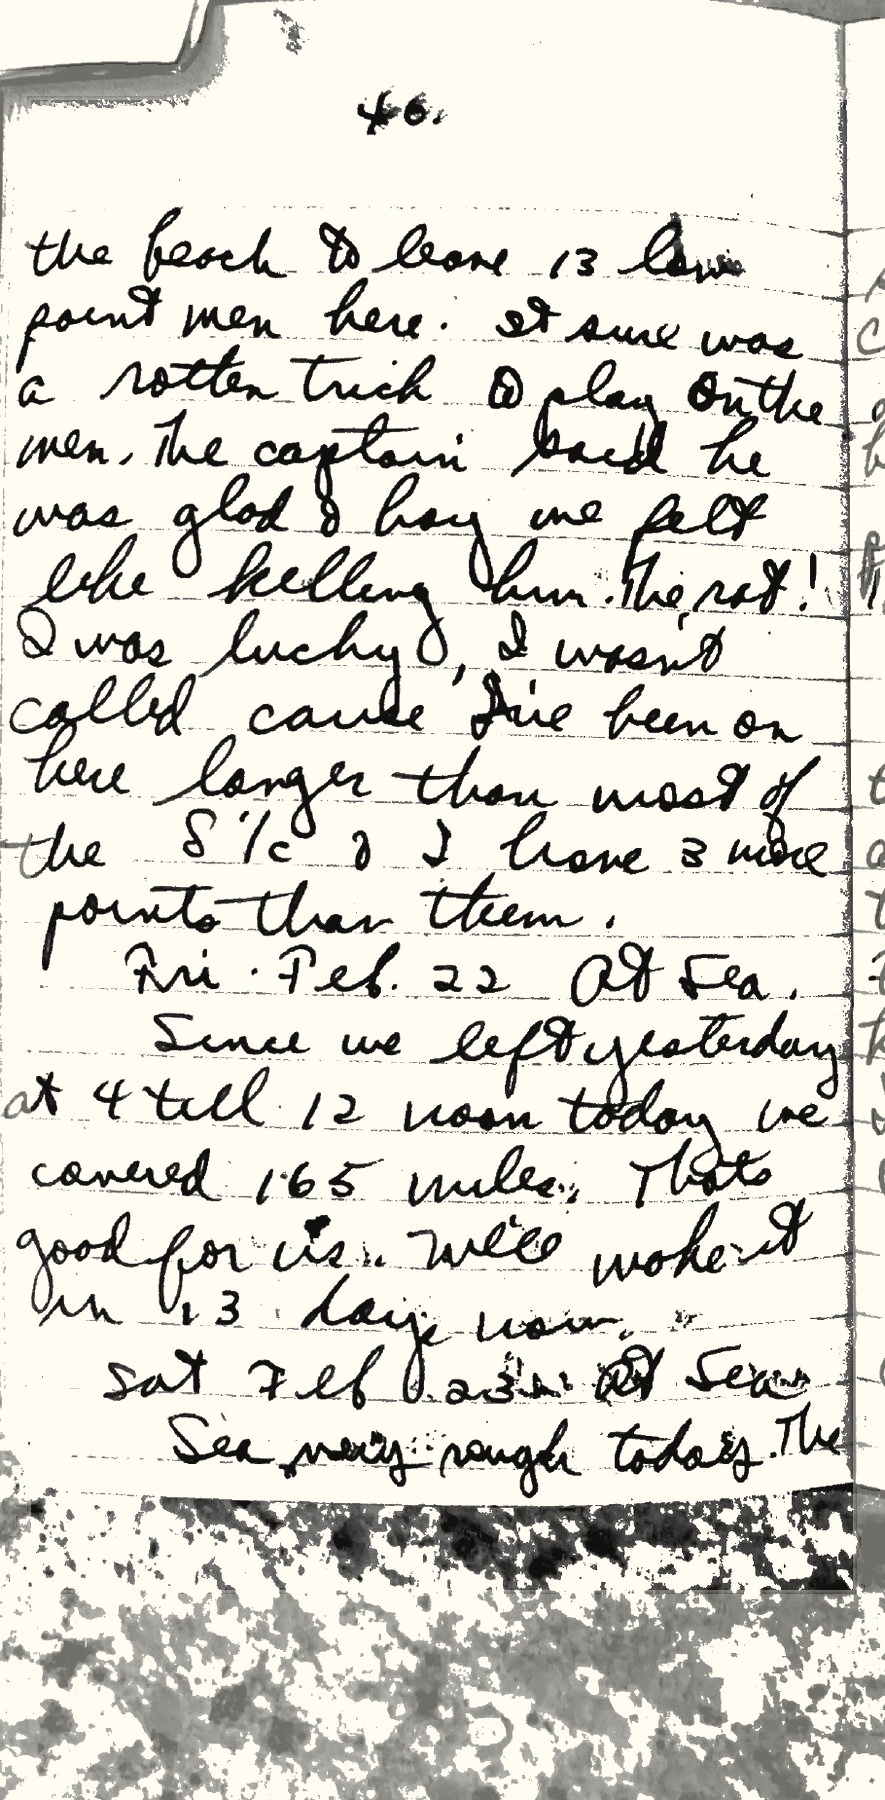
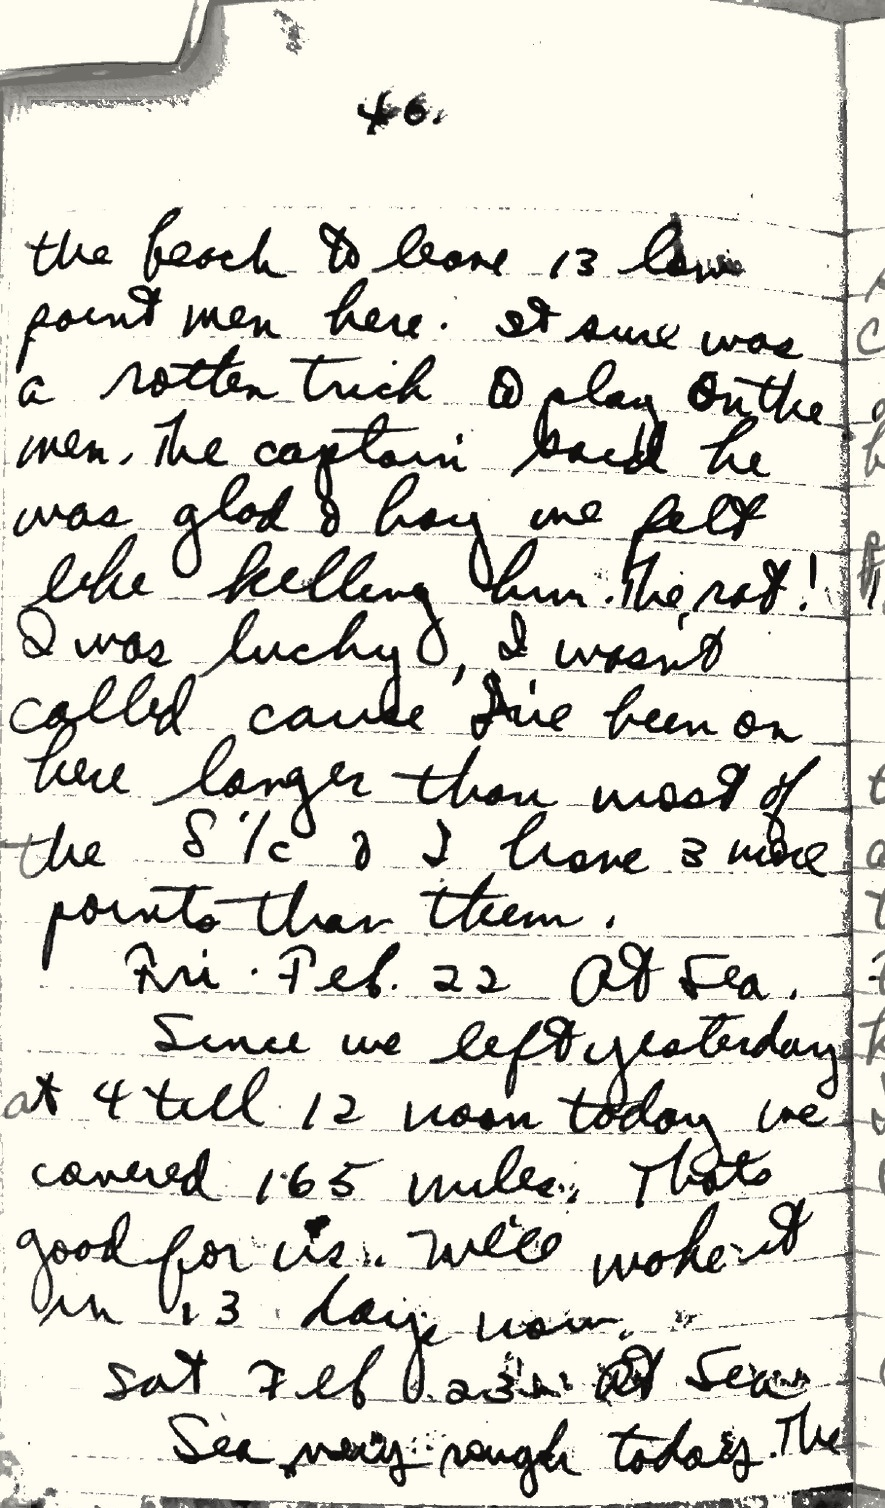
Refine handwritten crops and add closing photo

diff --git a/docs/index.html b/docs/index.html
@@ -186,6 +186,17 @@
       font-size: clamp(24px, 3vw, 42px);
       line-height: 1.25;
     }
+    .birthdayPhoto {
+      width: min(760px, 86vw);
+      margin: 8px 0 72px;
+    }
+    .birthdayPhoto img {
+      width: 100%;
+      height: auto;
+      max-height: min(48vh, 540px);
+      object-fit: contain;
+      box-shadow: 0 18px 44px rgba(34, 29, 20, 0.18);
+    }
     .birthdayFooter {
       position: absolute;
       right: 24px;
@@ -1050,7 +1061,7 @@
     <section class="column handwrittenColumn" aria-label="Page 23 handwritten page">
       
       <figure>
-        <img src="assets/pages_shadow_midpoint/page_24.jpg" alt="Handwritten diary Page 24" width="1041" height="1800" loading="lazy">
+        <img src="assets/pages_shadow_midpoint/page_24.jpg" alt="Handwritten diary Page 24" width="999" height="1800" loading="lazy">
         
       </figure>
     </section>
@@ -1424,7 +1435,7 @@
     <section class="column handwrittenColumn" aria-label="Page 36 handwritten page">
       
       <figure>
-        <img src="assets/pages_shadow_midpoint/page_37.jpg" alt="Handwritten diary Page 37" width="924" height="1585" loading="lazy">
+        <img src="assets/pages_shadow_midpoint/page_37.jpg" alt="Handwritten diary Page 37" width="924" height="1515" loading="lazy">
         
       </figure>
     </section>
@@ -1453,7 +1464,7 @@
     <section class="column handwrittenColumn" aria-label="Page 37 handwritten page">
       
       <figure>
-        <img src="assets/pages_shadow_midpoint/page_38.jpg" alt="Handwritten diary Page 38" width="924" height="1560" loading="lazy">
+        <img src="assets/pages_shadow_midpoint/page_38.jpg" alt="Handwritten diary Page 38" width="924" height="1518" loading="lazy">
         
       </figure>
     </section>
@@ -1542,7 +1553,7 @@
     <section class="column handwrittenColumn" aria-label="Page 40 handwritten page">
       
       <figure>
-        <img src="assets/pages_shadow_midpoint/page_41.jpg" alt="Handwritten diary Page 41" width="885" height="1800" loading="lazy">
+        <img src="assets/pages_shadow_midpoint/page_41.jpg" alt="Handwritten diary Page 41" width="885" height="1508" loading="lazy">
         
       </figure>
     </section>
@@ -1868,6 +1879,7 @@
   <div class="birthdayPage">
     <div class="birthdayMessage">
       <h2 class="scriptTitle"><span>Commemorating the</span><span>100th Anniversary</span><span>of my Father&apos;s birth,</span><span>with Love...</span></h2>
+      <figure class="birthdayPhoto"><img src="assets/front/tom-and-poppie-100-years.jpeg" alt="Tom with Angelo &quot;Poppie&quot; Pignataro." width="3024" height="2891" loading="lazy"></figure>
     </div>
     <p class="birthdayFooter"><span>Please let me know of any edits or improvements:</span><a href="mailto:tom@pinataro.com">tom@pinataro.com</a><span>Thank you.</span></p>
   </div>

diff --git a/scripts/export-journal-html.js b/scripts/export-journal-html.js
@@ -298,10 +298,14 @@ function renderPhotoPage(entry) {
 }
 
 function renderBirthdayPage(entry) {
+  const photo = entry.image
+    ? `<figure class="birthdayPhoto">${imgTag(entry.image, entry.alt || entry.label)}</figure>`
+    : '';
   return `<article class="entry birthdayPageEntry" id="${escapeHtml(entry.id)}">
   <div class="birthdayPage">
     <div class="birthdayMessage">
       <h2 class="scriptTitle"><span>Commemorating the</span><span>100th Anniversary</span><span>of my Father&apos;s birth,</span><span>with Love...</span></h2>
+      ${photo}
     </div>
     <p class="birthdayFooter"><span>Please let me know of any edits or improvements:</span><a href="mailto:tom@pinataro.com">tom@pinataro.com</a><span>Thank you.</span></p>
   </div>
@@ -496,6 +500,17 @@ function renderHtml(entries) {
       margin: 0;
       font-size: clamp(24px, 3vw, 42px);
       line-height: 1.25;
+    }
+    .birthdayPhoto {
+      width: min(760px, 86vw);
+      margin: 8px 0 72px;
+    }
+    .birthdayPhoto img {
+      width: 100%;
+      height: auto;
+      max-height: min(48vh, 540px);
+      object-fit: contain;
+      box-shadow: 0 18px 44px rgba(34, 29, 20, 0.18);
     }
     .birthdayFooter {
       position: absolute;
@@ -692,7 +707,9 @@ function main() {
   entries.push({
     type: 'birthdayPage',
     label: '100 years',
-    id: '100-years'
+    id: '100-years',
+    image: 'assets/front/tom-and-poppie-100-years.jpeg',
+    alt: 'Tom with Angelo "Poppie" Pignataro.'
   });
   const usedTypedSource = applyTypedSource(entries, parseTypedSource(typedSourcePath));
   if (!usedTypedSource) flowNumberedPageContinuations(entries);

diff --git a/scripts/clean-handwritten-shadows.py b/scripts/clean-handwritten-shadows.py
@@ -12,22 +12,26 @@ from PIL import Image
 
 
 BOTTOM_CROP_HEIGHTS = {
-    "page_37.jpg": 1585,
-    "page_38.jpg": 1560,
+    "page_37.jpg": 1515,
+    "page_38.jpg": 1518,
+    "page_41.jpg": 1508,
     "page_42.jpg": 1525,
     "page_47.jpg": 1775,
 }
 
 SPECIAL_POLYGONS = {
-    "page_12.jpg": [
-        [(0, 1740), (260, 1765), (520, 1782), (1023, 1778), (1023, 1800), (0, 1800)],
-    ],
     "page_49.jpg": [
         [(0, 0), (400, 0), (305, 155), (40, 280), (0, 255)],
     ],
     "page_51.jpg": [
         [(0, 0), (180, 0), (125, 95), (0, 125)],
         [(955, 0), (1158, 0), (1158, 160), (1010, 120)],
+    ],
+}
+
+PROTECTED_POLYGONS = {
+    "page_12.jpg": [
+        [(0, 1710), (230, 1742), (560, 1770), (1023, 1778), (1023, 1800), (0, 1800)],
     ],
 }
 
@@ -45,6 +49,7 @@ RIGHT_CROP_WIDTHS = {
 LEFT_CROP_WIDTHS = {
     "page_01.jpg": 58,
     "page_02.jpg": 22,
+    "page_24.jpg": 42,
 }
 
 TOP_CROP_HEIGHTS = {
@@ -54,6 +59,9 @@ TOP_CROP_HEIGHTS = {
 PROTECTED_SHADOW_RECTS = {
     "page_02.jpg": [
         (0, 0, 58, 1800),
+    ],
+    "page_24.jpg": [
+        (0, 0, 70, 1800),
     ],
 }
 
@@ -104,6 +112,14 @@ def page_specific_mask(image: np.ndarray, filename: str) -> np.ndarray:
         add_poly(mask, polygon)
     for rect in SPECIAL_RECTS.get(filename, []):
         add_rect(mask, rect)
+    return mask
+
+
+def page_specific_protected_mask(image: np.ndarray, filename: str) -> np.ndarray:
+    height, width = image.shape[:2]
+    mask = np.zeros((height, width), np.uint8)
+    for polygon in PROTECTED_POLYGONS.get(filename, []):
+        add_poly(mask, polygon)
     return mask
 
 
@@ -189,6 +205,10 @@ def protected_shadow_fill(image: np.ndarray, rect: tuple[int, int, int, int]) ->
     x1, y1, x2, y2 = rect
     mask = np.zeros((height, width), np.uint8)
     add_rect(mask, (x1, y1, x2, y2))
+    return protected_mask_fill(image, mask)
+
+
+def protected_mask_fill(image: np.ndarray, mask: np.ndarray) -> np.ndarray:
     mask = cv2.GaussianBlur(mask, (0, 0), sigmaX=4, sigmaY=1)
 
     gray = cv2.cvtColor(image, cv2.COLOR_RGB2GRAY)
@@ -246,6 +266,9 @@ def main() -> None:
         special_mask = page_specific_mask(np.asarray(cleaned), source_file.name)
         if np.any(special_mask):
             cleaned = Image.fromarray(feather_fill(np.asarray(cleaned), special_mask, paper_color(np.asarray(cleaned))))
+        protected_mask = page_specific_protected_mask(np.asarray(cleaned), source_file.name)
+        if np.any(protected_mask):
+            cleaned = Image.fromarray(protected_mask_fill(np.asarray(cleaned), protected_mask))
         crop_height = BOTTOM_CROP_HEIGHTS.get(source_file.name)
         if crop_height:
             cleaned = cleaned.crop((0, 0, cleaned.width, crop_height))
